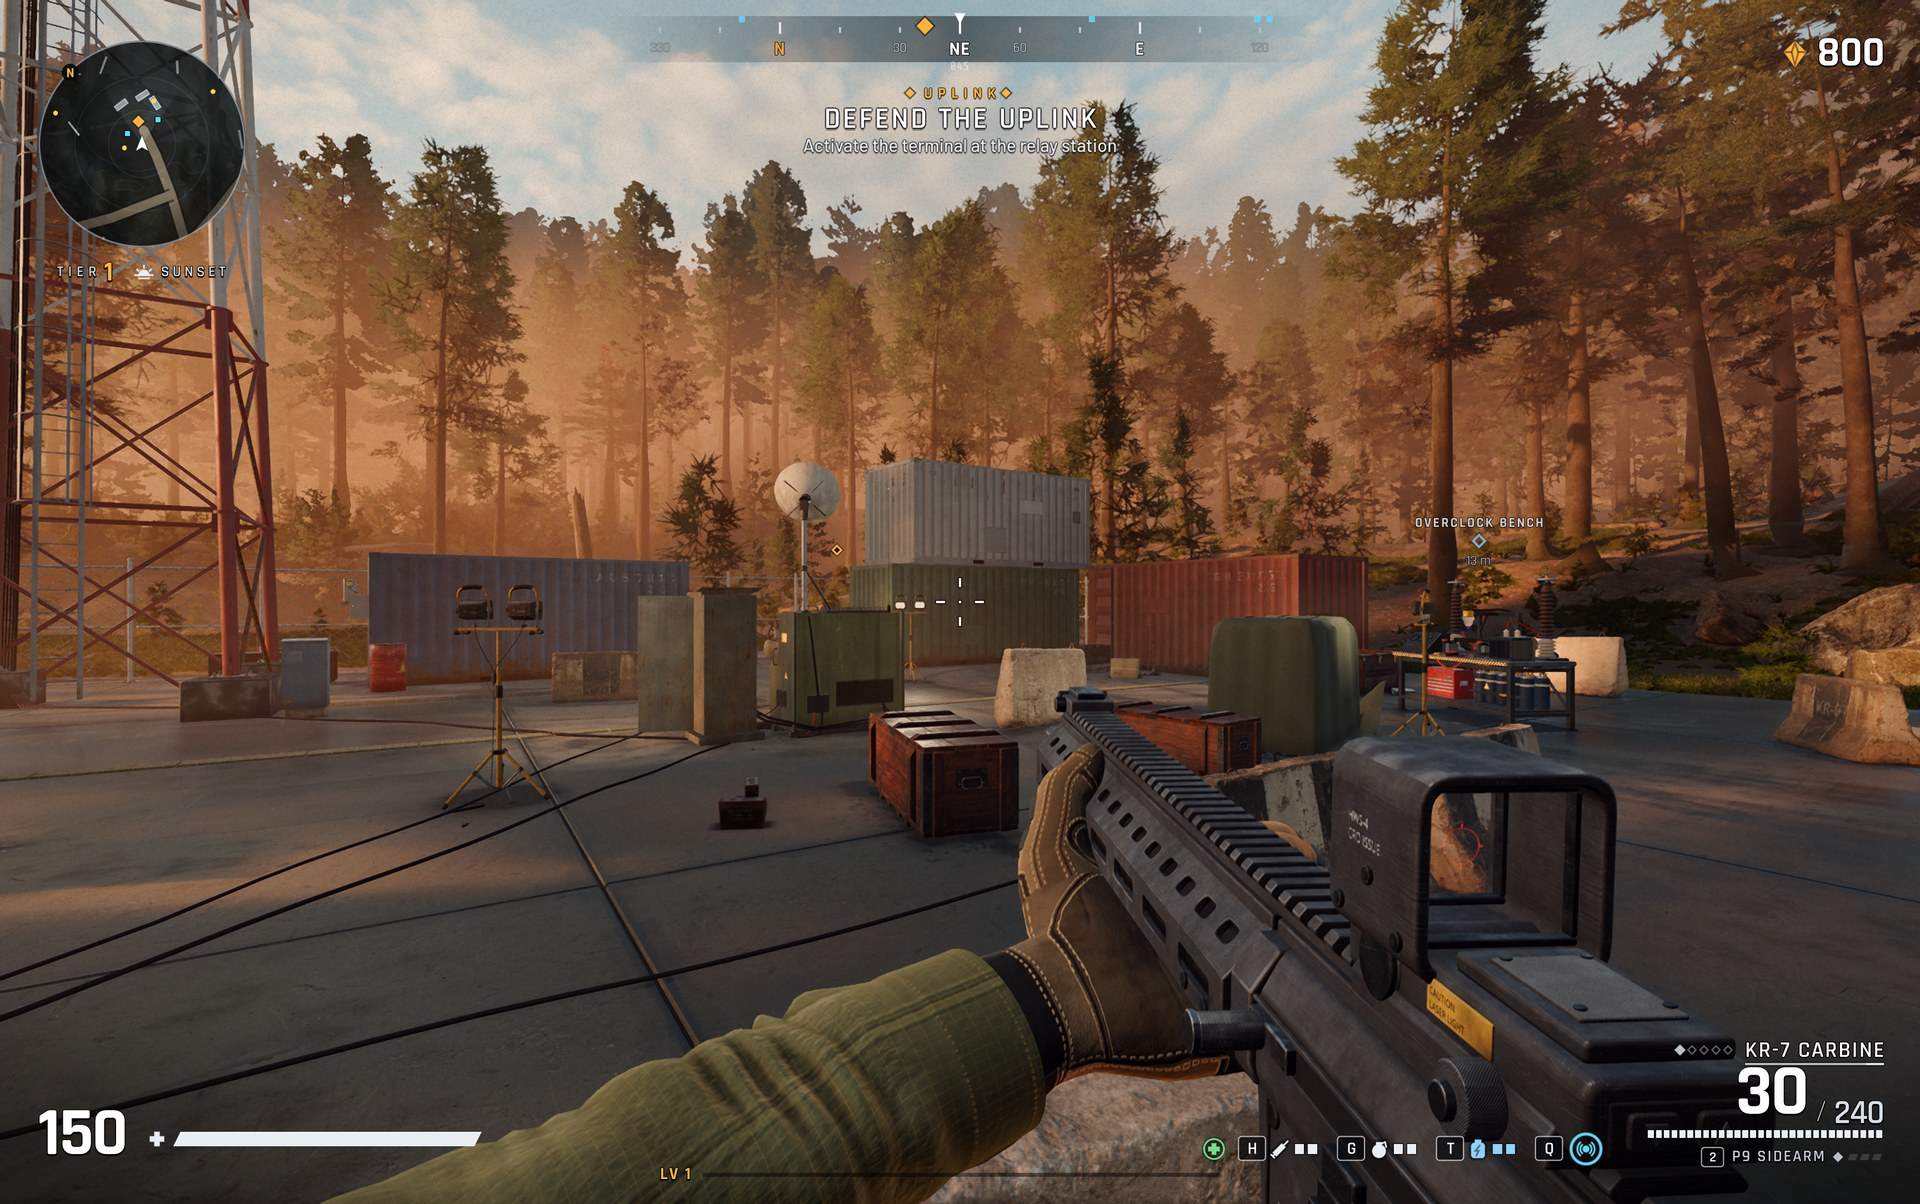
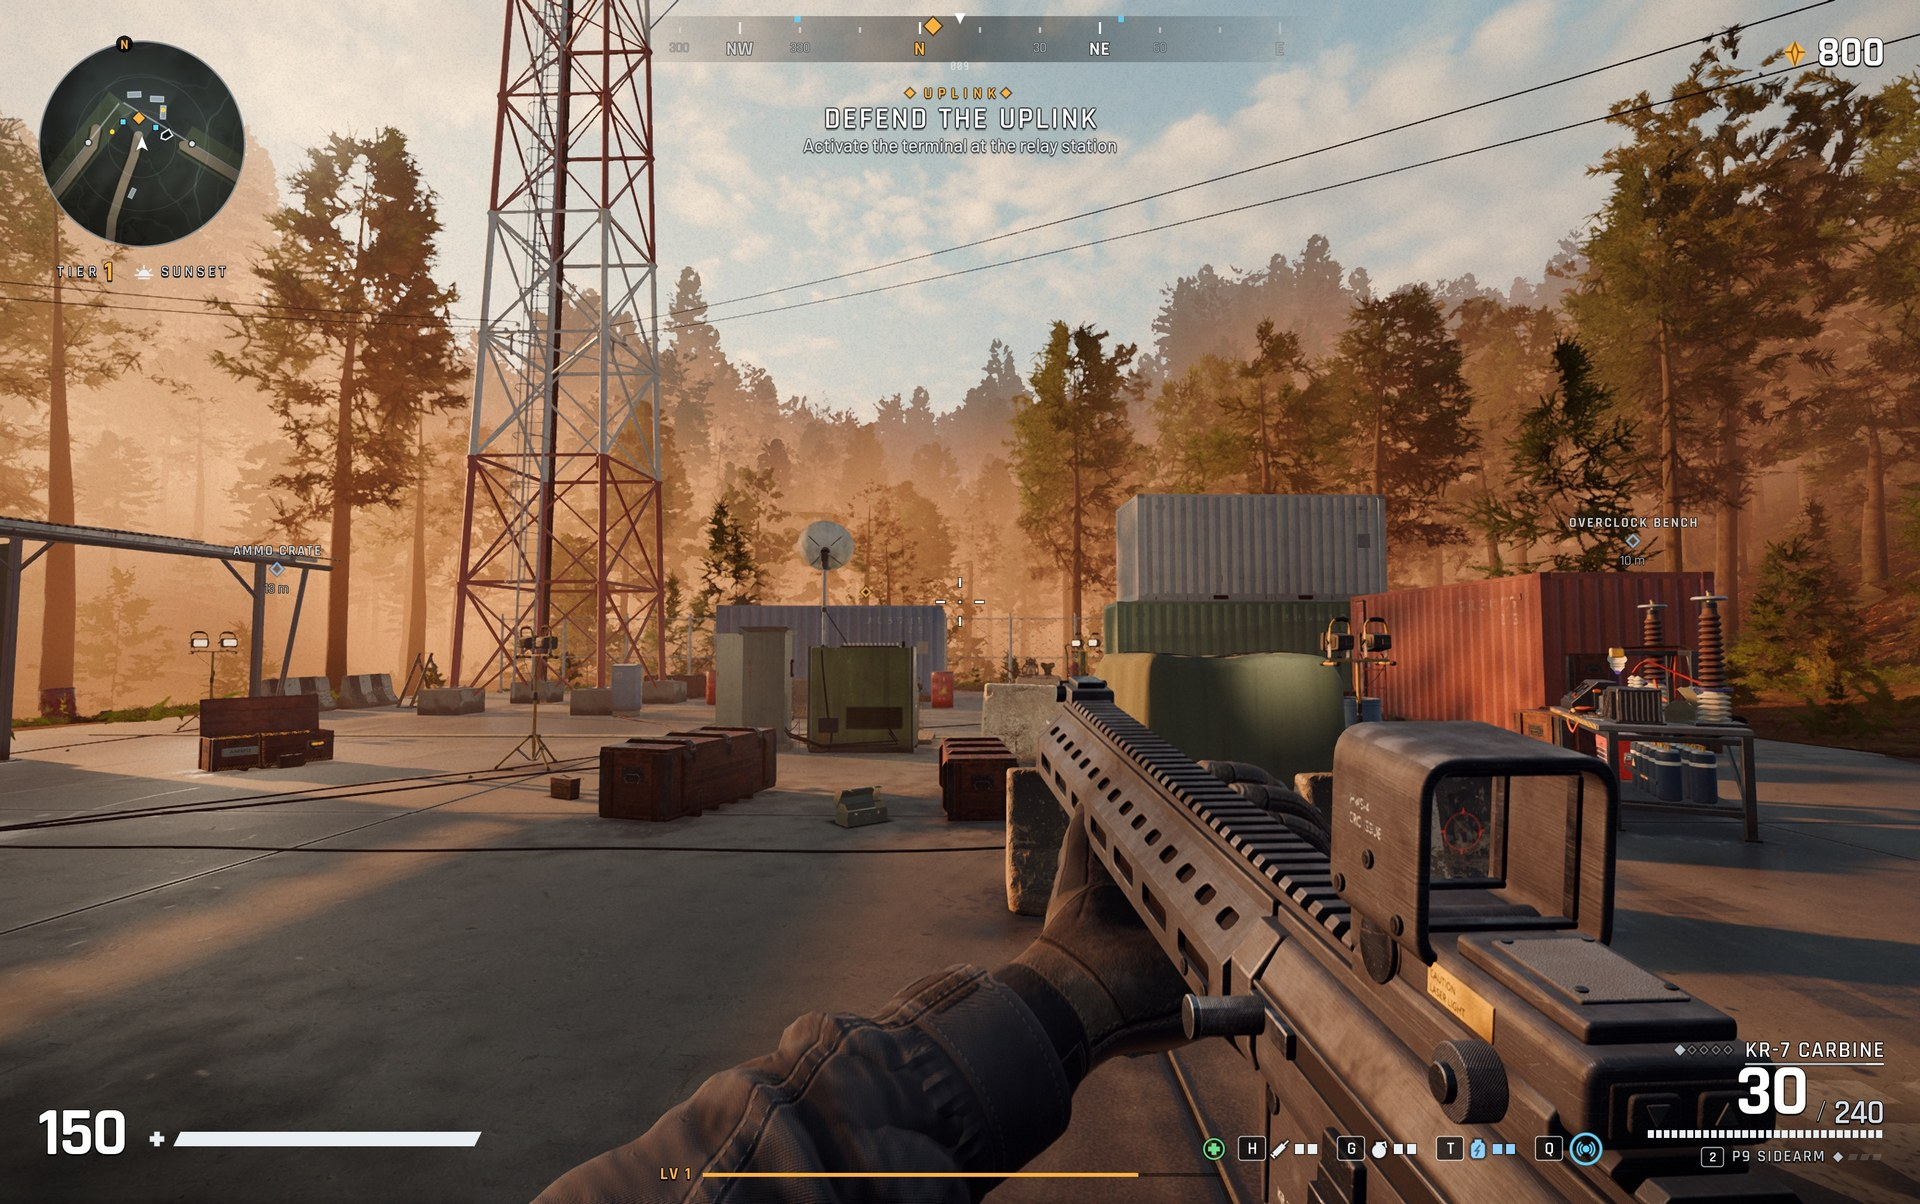
The page's pictures retaken at the new layouts
Twelve of the fourteen, from a 0.8.1 app holding the round 11 update: both zones at 400 m, the places where
they stand now, the operators' dark grey sleeve. The menu and the whiteout keep their old pictures until two
flaws those pictures showed are fixed.

diff --git a/README.md b/README.md
@@ -88,7 +88,7 @@ fresh one stands at its place a few minutes later.
 
 | | |
 |---|---|
-| ![The relay yard at sunset](media/02_relay_yard_sunset.jpg) | ![Forest at dusk](media/03_forest_dusk.jpg) |
+| ![The relay yard at sunset](media/02_relay_yard_sunset.jpg) | ![The track to the crash site at dusk](media/03_forest_dusk.jpg) |
 | ![Morning at the road block](media/01_roadblock_morning.jpg) | ![The bunker](media/05_bunker.jpg) |
 | ![Down the sight at sunset](media/06_fight.jpg) | |
 
